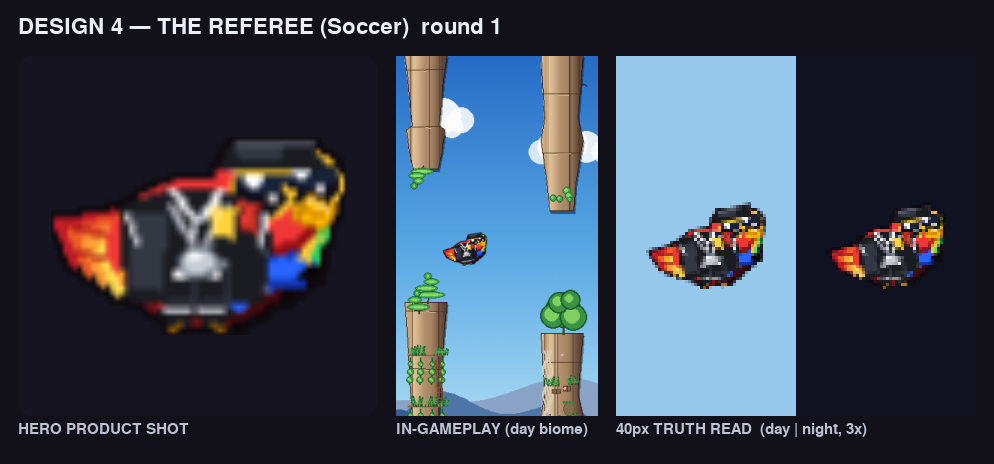
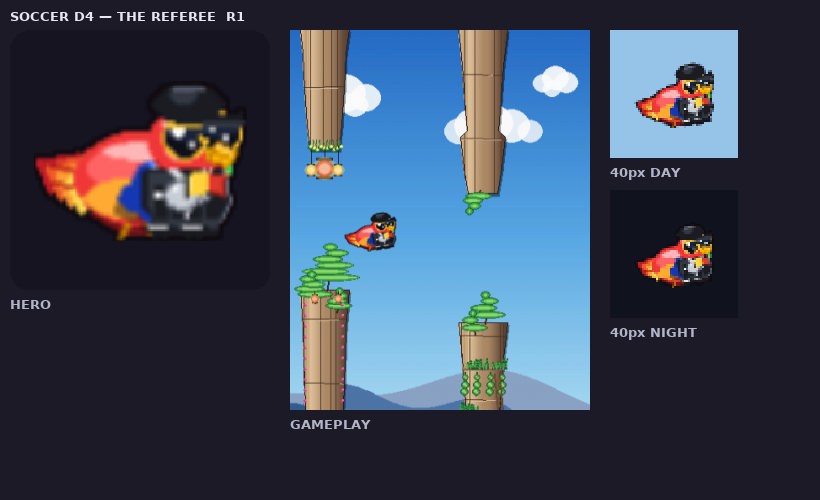
Soccer costume D4 (The Referee) v2: jersey on HX,HY anchor, no headband
Claude-Session: https://claude.ai/code/session_01HafGQfRZVDiGkQqpJPr5Cm

diff --git a/tools/soccer_candidates/design_4.py b/tools/soccer_candidates/design_4.py
@@ -1,4 +1,4 @@
-"""DESIGN 4 — THE REFEREE (Soccer / Football).
+"""DESIGN 4 — THE REFEREE (Soccer / Football) — v2.
 
 Scratch exploration only — NOT registered in store_skins.BUILDERS. Pip the
 scarlet macaw kitted as the man in the middle: an all-BLACK officials kit —
@@ -8,13 +8,16 @@ metal WHISTLE on a lanyard cord that loops the neck and rests on the chest,
 and a yellow CARD with a sliver of red card peeking from the breast pocket.
 A completely different role and colour-story from any player kit.
 
-The kit is painted OVER the scarlet body (the head stays the macaw so Pip
-still reads as a parrot). The risk of a black kit on a scarlet bird is that
-the cloth swallows the body contour, so the read is carried by crisp WHITE
-piping + the bright yellow/red cards + the steel whistle glint — all kept
-high-contrast so they survive the 40px downscale on BOTH day and night.
-All kit is held INSIDE the base bird footprint (socks + boots on the feet
-line ~HY+15..27, only a thin cap touches the crown).
+v2 fix: the jersey now uses the SAME HX,HY-anchored polygon as the baseball
+kit (sports design_4) — top at HY+8 (y=49), hem at HY+23 (y=64) — so the
+shirt sits ON the torso instead of riding high-left over the head. NOTHING
+in the kit rises above y=49 except the slim officials cap on the crown; there
+is NO horizontal band across the brow/crown.
+
+The risk of a black kit on a scarlet bird is that the cloth swallows the body
+contour, so the read is carried by crisp WHITE piping + the bright yellow/red
+cards + the steel whistle glint — all high-contrast so they survive the 40px
+downscale on BOTH day and night.
 
 Headless render: tools/soccer_candidates/render_design_4.py.
 """
@@ -30,7 +33,7 @@ from game.store_skins import HX, HY, CROWN_Y, _poly
 # the contrast work the black cloth can't.
 _REF_BLACK   = (26, 28, 34)         # #1A1C22 referee black (core)
 _REF_GREY    = (52, 56, 66)         # cool dark grey lit plane (mid value)
-_REF_RIM     = (108, 116, 132)      # cool rim light at the cloth edge (~15% brighter)
+_REF_RIM     = (108, 116, 132)      # cool rim light at the cloth edge
 _REF_WHITE   = (244, 244, 248)      # #F4F4F8 collar / sock piping
 _REF_YELLOW  = (255, 210, 59)       # #FFD23B yellow card
 _REF_YEL_H   = (255, 232, 138)      # yellow-card glint
@@ -42,120 +45,107 @@ _REF_STEEL_D = (96, 102, 116)       # whistle steel shadow
 _REF_CORD    = (220, 222, 228)      # pale lanyard cord (so it reads on black)
 
 
-# Body centre in composite space (parrot body centre (32,32) + PARROT_DY=20).
-BCX, BCY = 32, 52
-
-
 def _paint(surf, _a):
-    # --- Black collared ref SHIRT over the torso (THE officials read) -----------
-    # A clean shirt block clipped to the chest, painted near-black, then a cool
-    # grey lit plane down the left chest and a rim light at the right contour so
-    # the cloth reads ROUND despite being black on a scarlet body. Kept inside
-    # the footprint (top at the shoulders ~BCY-12, hem at ~BCY+11).
-    shirt = [(BCX - 15, BCY - 9), (BCX - 16, BCY - 1), (BCX - 14, BCY + 11),
-             (BCX + 13, BCY + 11), (BCX + 15, BCY - 1), (BCX + 13, BCY - 9),
-             (BCX + 4, BCY - 12), (BCX - 6, BCY - 12)]
-    _poly(surf, _REF_BLACK, shirt)
+    # --- Black collared ref JERSEY over the torso (THE officials read) -----------
+    # SAME polygon shape as the baseball jersey (sports design_4), recolored
+    # near-black: top at HY+8 (y=49), hem at HY+23 (y=64). Three cloth values so
+    # the black reads ROUND on the scarlet body; nothing rises above y=49.
+    jersey = [(HX - 13, HY + 8), (HX - 14, HY + 18), (HX - 10, HY + 23),
+              (HX + 8, HY + 23), (HX + 11, HY + 18), (HX + 9, HY + 8)]
+    _poly(surf, _REF_BLACK, jersey)
+    # Cool grey lit plane down the near (left) chest so a light source reads on
+    # the black cloth instead of a flat silhouette.
+    _poly(surf, _REF_GREY, [(HX - 12, HY + 9), (HX - 4, HY + 9),
+                            (HX - 6, HY + 22), (HX - 11, HY + 21)])
+    # Rim light along the far (right) side edge — the cool highlight that pulls
+    # the black contour off the scarlet body at small sizes. 2px so it survives
+    # the NIGHT swatch.
+    pygame.draw.line(surf, _REF_RIM, (HX + 9, HY + 8), (HX + 11, HY + 18), 2)
+    pygame.draw.line(surf, _REF_RIM, (HX + 11, HY + 18), (HX + 8, HY + 23), 2)
+    # Cloth edge so the jersey contour stays crisp.
+    pygame.draw.polygon(surf, _REF_BLACK, jersey, 1)
 
-    # Lit plane — a soft grey wedge down the near (left) chest so a light source
-    # reads on the black cloth instead of a flat silhouette.
-    _poly(surf, _REF_GREY, [(BCX - 14, BCY - 7), (BCX - 6, BCY - 8),
-                            (BCX - 8, BCY + 9), (BCX - 14, BCY + 8)])
-    # Rim light along the far (right) shoulder/side edge — the cool highlight
-    # that pulls the black cloth contour off the scarlet body at small sizes.
-    # Thickened to 2px + brightened so the round reads on the NIGHT swatch.
-    pygame.draw.line(surf, _REF_RIM, (BCX + 13, BCY - 9), (BCX + 14, BCY + 9), 2)
-    pygame.draw.line(surf, _REF_RIM, (BCX + 4, BCY - 12), (BCX + 13, BCY - 9), 2)
+    # White V-collar piping at the jersey top (HY+8..12) — the first contrast hit
+    # so the shirt reads as a collared officials top, not a plain black bib.
+    pygame.draw.line(surf, _REF_WHITE, (HX - 6, HY + 8), (HX - 1, HY + 13), 2)
+    pygame.draw.line(surf, _REF_WHITE, (HX + 5, HY + 8), (HX, HY + 13), 2)
+    # White placket flash down the centre seam.
+    pygame.draw.line(surf, _REF_WHITE, (HX - 1, HY + 12), (HX - 1, HY + 22), 1)
 
-    # Shoulder-seam shadow so the sleeves read as set-in, plus the cloth edge.
-    pygame.draw.line(surf, _REF_BLACK, (BCX - 13, BCY - 8), (BCX + 11, BCY - 8), 1)
-    pygame.draw.polygon(surf, _REF_BLACK, shirt, 1)
-
-    # Collar — a sharp white-piped V so the shirt reads as a collared officials
-    # top, not a plain black bib. The white piping is the first contrast hit.
-    _poly(surf, _REF_BLACK, [(BCX - 6, BCY - 12), (BCX + 4, BCY - 12),
-                             (BCX, BCY - 6), (BCX - 3, BCY - 8)])
-    pygame.draw.line(surf, _REF_WHITE, (BCX - 6, BCY - 12), (BCX - 1, BCY - 6), 2)
-    pygame.draw.line(surf, _REF_WHITE, (BCX + 4, BCY - 12), (BCX, BCY - 6), 2)
-    # White placket flash down the centre seam (a thin officials trim).
-    pygame.draw.line(surf, _REF_WHITE, (BCX - 1, BCY - 6), (BCX - 2, BCY + 4), 1)
-    # White piping along each sleeve cap so the shoulders read crisp on day+night.
-    pygame.draw.line(surf, _REF_WHITE, (BCX - 15, BCY - 7), (BCX - 13, BCY - 1), 1)
-    pygame.draw.line(surf, _REF_WHITE, (BCX + 14, BCY - 7), (BCX + 13, BCY - 1), 1)
+    # --- Black SHORTS band at the hem (HY+23..26) -------------------------------
+    pygame.draw.line(surf, _REF_GREY, (HX - 10, HY + 24), (HX + 8, HY + 24), 4)
+    pygame.draw.line(surf, _REF_BLACK, (HX - 10, HY + 26), (HX + 8, HY + 26), 2)
 
     # --- Black SOCKS + boots at the feet line -----------------------------------
-    # Black socks with a single white hoop band (the kit tell), then black boots
-    # with a white sole stripe so the feet read as boots, not a dark blob, at
-    # small sizes. Everything sits ON the feet line (~HY+15..27).
-    for fx in (28, 35):
-        pygame.draw.line(surf, _REF_GREY, (fx + 1, HY + 15), (fx + 1, HY + 23), 5)
-        pygame.draw.line(surf, _REF_BLACK, (fx, HY + 15), (fx, HY + 23), 4)
-        # White hoop band near the top of the sock — crisp contrast on the black.
-        pygame.draw.line(surf, _REF_WHITE, (fx - 1, HY + 16), (fx + 1, HY + 16), 2)
+    # Two black sock pillars (HY+13..HY+24) with a single white hoop band near the
+    # top (the kit tell), then black boots with a bright white sole stripe so the
+    # feet read as boots, not a dark blob, at small sizes.
+    for fx in (HX - 9, HX + 1):
+        pygame.draw.line(surf, _REF_GREY, (fx + 1, HY + 13), (fx + 1, HY + 24), 5)
+        pygame.draw.line(surf, _REF_BLACK, (fx, HY + 13), (fx, HY + 24), 4)
+        # White hoop band near the top of the sock.
+        pygame.draw.line(surf, _REF_WHITE, (fx - 1, HY + 15), (fx + 1, HY + 15), 2)
         # Boot — black upper + a bright white sole stripe + two stud ticks.
-        pygame.draw.ellipse(surf, _REF_GREY, (fx - 4, HY + 22, 9, 5))
-        pygame.draw.ellipse(surf, _REF_BLACK, (fx - 4, HY + 23, 9, 4))
-        pygame.draw.line(surf, _REF_WHITE, (fx - 3, HY + 24), (fx + 2, HY + 24), 1)
+        pygame.draw.ellipse(surf, _REF_GREY, (fx - 4, HY + 23, 9, 5))
+        pygame.draw.ellipse(surf, _REF_BLACK, (fx - 4, HY + 24, 9, 4))
+        pygame.draw.line(surf, _REF_WHITE, (fx - 3, HY + 25), (fx + 2, HY + 25), 1)
         for tx in (fx - 2, fx + 1):
-            pygame.draw.line(surf, _REF_BLACK, (tx, HY + 26), (tx, HY + 27), 2)
+            pygame.draw.line(surf, _REF_BLACK, (tx, HY + 27), (tx, HY + 28), 2)
 
-    # --- Optional thin black CAP on the crown (officials touch) ------------------
-    # A slim peaked black cap with one rim-light edge — adds the official's
-    # headgear tell without the bulk that would hide the macaw head.
-    cap = [(HX - 10, CROWN_Y + 4), (HX + 11, CROWN_Y + 4),
-           (HX + 9, CROWN_Y - 1), (HX - 7, CROWN_Y - 1)]
-    _poly(surf, _REF_BLACK, cap)
-    _poly(surf, _REF_GREY, [(HX - 7, CROWN_Y - 1), (HX + 3, CROWN_Y - 1),
-                            (HX + 2, CROWN_Y + 2), (HX - 6, CROWN_Y + 2)])
-    pygame.draw.line(surf, _REF_RIM, (HX - 7, CROWN_Y - 1), (HX + 9, CROWN_Y - 1), 1)
-    # Short brim peeking forward (toward the beak) — kept SHORT so it doesn't
-    # crowd the beak; the cards + whistle carry the referee role, not the cap.
-    _poly(surf, _REF_BLACK, [(HX + 9, CROWN_Y + 3), (HX + 12, CROWN_Y + 4),
-                             (HX + 9, CROWN_Y + 5)])
+    # --- Slim peaked officials CAP on the crown ---------------------------------
+    # Adapted from the baseball cap (sports design_4) for black: a small navy
+    # shell becomes a near-black officials cap with one rim-light edge + a short
+    # forward brim. NO horizontal band crosses the brow — the shell sits ON TOP.
+    cy = CROWN_Y - 3
+    pygame.draw.ellipse(surf, _REF_BLACK, (HX - 11, cy - 4, 22, 12))
+    pygame.draw.ellipse(surf, _REF_BLACK, (HX - 11, cy - 4, 22, 12), 1)
+    pygame.draw.ellipse(surf, _REF_GREY, (HX - 6, cy - 3, 9, 5))   # top sheen
+    pygame.draw.line(surf, _REF_RIM, (HX - 5, cy - 3), (HX + 4, cy - 3), 1)
+    # Short forward brim projecting over the beak — the cap tell, kept SHORT so
+    # it doesn't crowd the beak.
+    brim = [(HX + 3, cy + 5), (HX + 15, cy + 4), (HX + 16, cy + 7),
+            (HX + 4, cy + 8)]
+    _poly(surf, _REF_BLACK, brim)
+    _poly(surf, _REF_GREY, [(HX + 4, cy + 7), (HX + 16, cy + 7),
+                            (HX + 15, cy + 8), (HX + 4, cy + 8)])
 
     # --- HERO PROPS, drawn LAST so they sit IN FRONT of the cloth ----------------
-    # Lanyard CORD looping the neck — ONE clean pale V from the neck to the
-    # whistle. A single strand reads as one clear gesture (neck → cord →
-    # whistle) instead of a tangle at 40px; no darker companion strand.
-    nlx, nly = BCX, BCY - 7                          # neck base of the lanyard
-    wx, wy = BCX, BCY + 3                            # whistle resting point (lower)
-    pygame.draw.line(surf, _REF_CORD, (nlx - 6, nly - 2), (wx, wy - 3), 2)
-    pygame.draw.line(surf, _REF_CORD, (nlx + 6, nly - 2), (wx, wy - 3), 2)
+    # Whistle on a lanyard: two pale-cord lines from the neck V-ing down to a
+    # silver disc resting on the chest. The neck base sits at the jersey top.
+    nlx, nly = HX, HY + 8                            # neck base of the lanyard
+    wx, wy = HX - 2, HY + 14                         # whistle resting point on chest
+    pygame.draw.line(surf, _REF_CORD, (nlx - 5, nly), (wx, wy - 3), 2)
+    pygame.draw.line(surf, _REF_CORD, (nlx + 5, nly), (wx, wy - 3), 2)
 
-    # Steel WHISTLE on the chest — THE referee prop, so enlarged ~30% over R1.
-    # A full dark contour rings the whole steel disc so it separates from BOTH
-    # the black cloth and the scarlet body, surviving the NIGHT swatch as a
-    # clear bright dot. Body ~11x9 (was 8x6).
+    # Steel WHISTLE disc on the chest — THE referee prop. A full dark contour
+    # rings the steel so it separates from BOTH the black cloth and the scarlet
+    # body, surviving the NIGHT swatch as a clear bright dot.
     pygame.draw.ellipse(surf, _REF_STEEL_D, (wx - 6, wy - 3, 12, 10))   # dark contour ring
     pygame.draw.ellipse(surf, _REF_STEEL, (wx - 5, wy - 2, 11, 9))      # steel body
-    # Mouthpiece nub on the near side (scaled up to match the bigger body).
+    # Mouthpiece nub on the near side.
     _poly(surf, _REF_STEEL, [(wx + 5, wy + 1), (wx + 8, wy + 2), (wx + 5, wy + 4)])
     pygame.draw.line(surf, _REF_STEEL_D, (wx + 5, wy + 4), (wx + 8, wy + 2), 1)
-    # Hot glint — a 2x2 bright cluster, the single brightest pixels, sells metal.
+    # Hot glint — the single brightest pixels, sells metal.
     pygame.draw.rect(surf, _REF_STEEL_H, (wx - 3, wy - 1, 2, 2))
-    # Full dark contour ALL the way around so the disc reads round on night.
     pygame.draw.ellipse(surf, _REF_STEEL_D, (wx - 6, wy - 3, 12, 10), 1)
 
-    # Yellow + red CARDS peeking from the near breast pocket — stacked, the red
-    # a sliver behind the yellow, both bright so they punch through the black at
-    # 40px and instantly say "referee" alongside the whistle. The yellow is the
-    # loudest accent, so it is a FAT, near-upright rounded rect peeking HIGH
-    # above the pocket line — maximum yellow footprint, minimal skew.
-    cx, cy = BCX + 7, BCY - 5
-    # Red card sliver behind — a 1px-wider tell so the red survives night.
-    _poly(surf, _REF_RED_D, [(cx + 3, cy - 6), (cx + 8, cy - 5),
-                             (cx + 7, cy + 2), (cx + 2, cy + 1)])
-    _poly(surf, _REF_RED, [(cx + 3, cy - 6), (cx + 7, cy - 5),
-                           (cx + 6, cy + 1), (cx + 2, cy)])
-    # Yellow card in front — fat near-upright rounded rect, peeking high. Dark
-    # edge first so the yellow contour separates from both red and black.
-    yl, yr, yt, yb = cx - 4, cx + 2, cy - 7, cy + 3
+    # Yellow + red CARDS from the breast pocket — a fat near-upright bright
+    # yellow rectangle with the red card a sliver behind, both bright so they
+    # punch through the black at 40px and instantly say "referee".
+    cx, cyy = HX + 3, HY + 11
+    # Red card sliver behind.
+    _poly(surf, _REF_RED_D, [(cx + 3, cyy - 2), (cx + 8, cyy - 1),
+                             (cx + 7, cyy + 5), (cx + 2, cyy + 4)])
+    _poly(surf, _REF_RED, [(cx + 3, cyy - 2), (cx + 7, cyy - 1),
+                           (cx + 6, cyy + 4), (cx + 2, cyy + 3)])
+    # Yellow card in front — fat near-upright rounded rect (HY+9..14). Dark edge
+    # first so the yellow contour separates from both red and black.
+    yl, yr, yt, yb = cx - 4, cx + 2, cyy - 2, cyy + 5
     _poly(surf, _REF_BLACK, [(yl, yt), (yr, yt - 1), (yr + 1, yb - 1),
                              (yl, yb)])                      # dark edge halo
     _poly(surf, _REF_YELLOW, [(yl + 1, yt), (yr, yt), (yr, yb - 1),
                               (yl + 1, yb - 1)])             # fat yellow face
-    # Round the corners by knocking single pixels at top/bottom, plus a glint
-    # down the lit (near) edge so the card reads as a bright upright slab.
+    # Glint down the lit (near) edge + knocked corners so the card reads round.
     pygame.draw.line(surf, _REF_YEL_H, (yl + 1, yt + 1), (yl + 1, yb - 2), 1)
     surf.set_at((yl + 1, yt), _REF_BLACK)
     surf.set_at((yr, yb - 1), _REF_BLACK)
